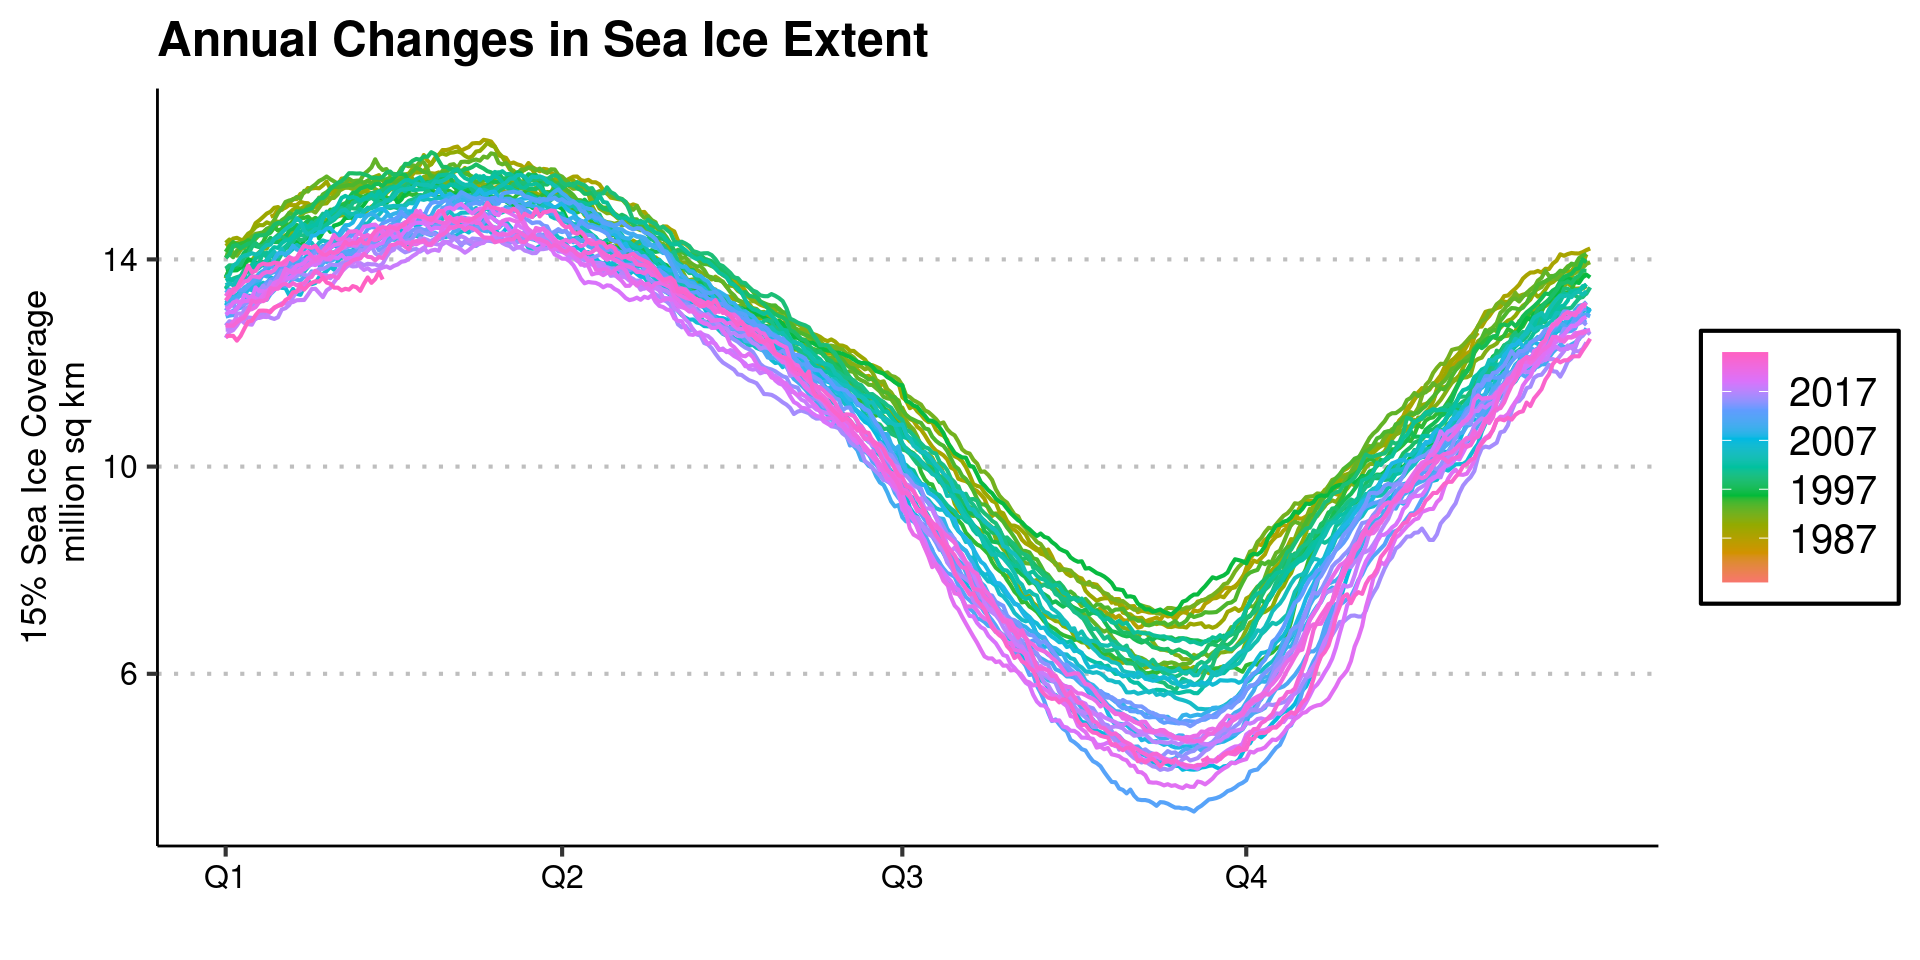
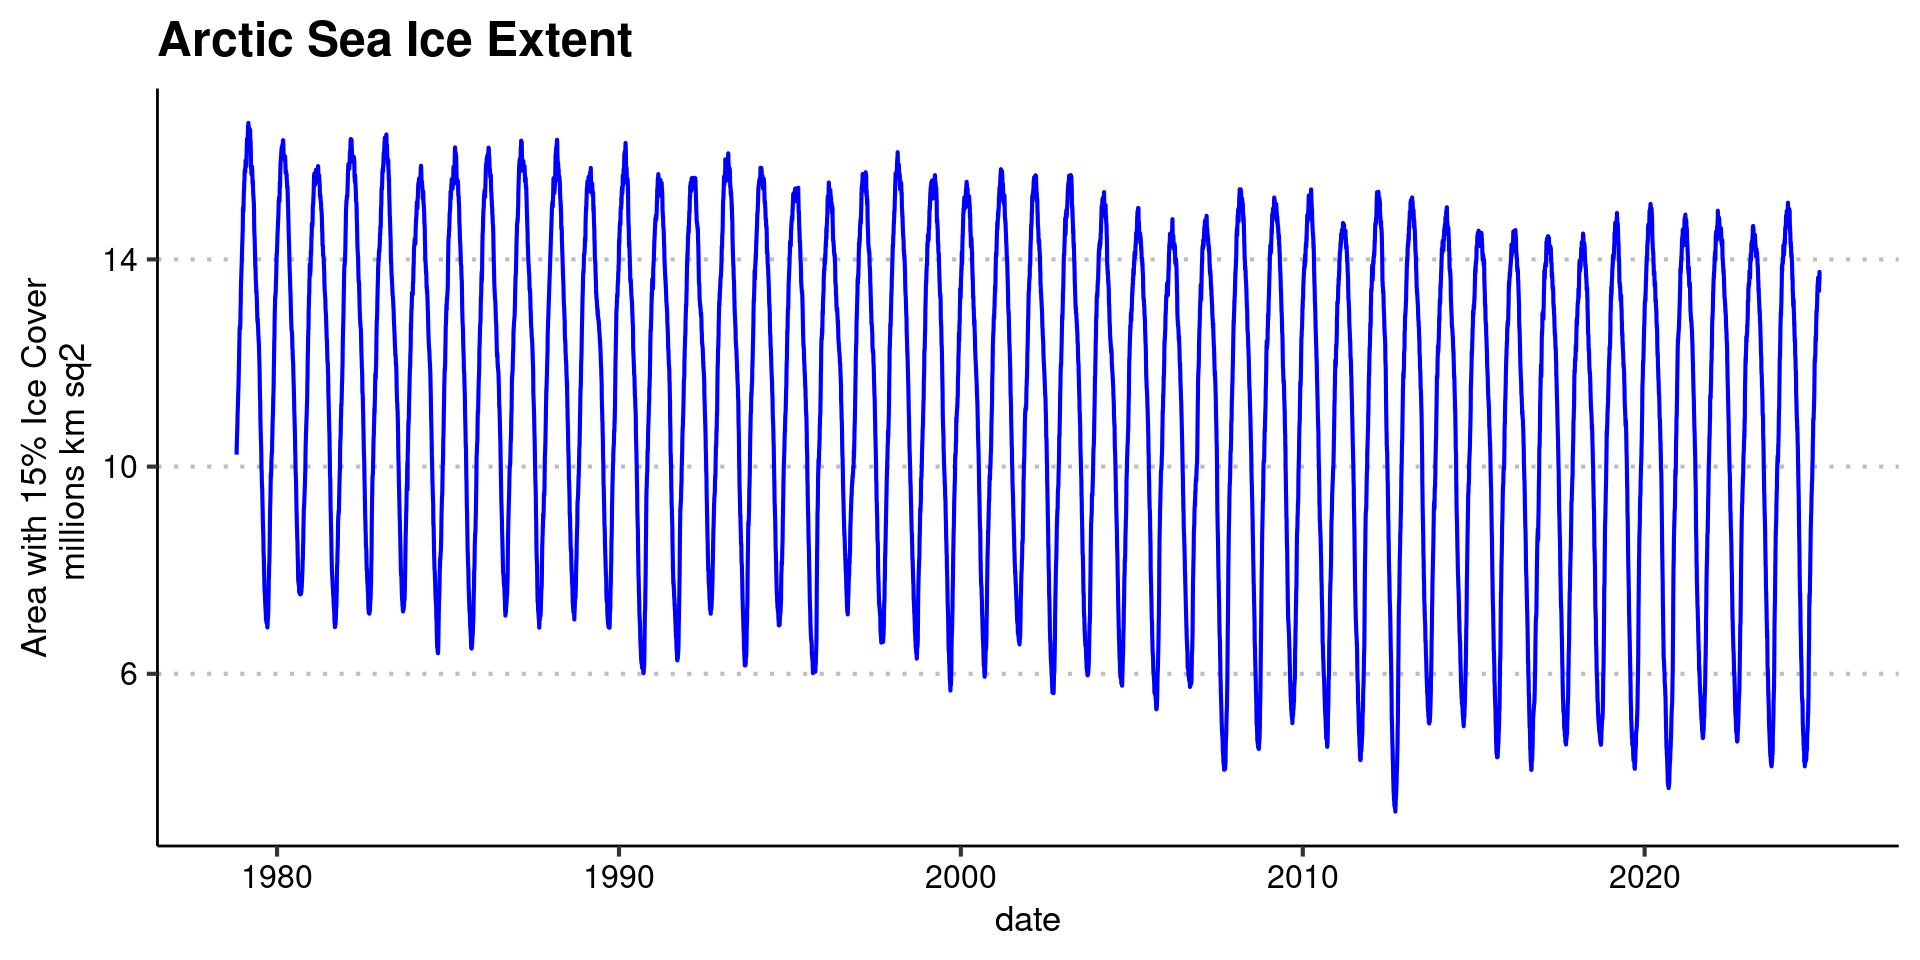
Built site for gh-pages

diff --git a/meetups/meetup-4/meetup-4.html b/meetups/meetup-4/meetup-4.html
@@ -408,13 +408,57 @@ George Hagstrom
 <h2>Week 4 Summary</h2>
 <ul>
 <li>Data Story 2 due this Sunday</li>
-<li>Discussion post on</li>
 <li>This week is all about associations
 <ul>
 <li>Two variables</li>
 <li>Time Series</li>
 <li>Several to Many Variables</li>
 </ul></li>
+</ul>
+</section>
+<section id="reading" class="slide level2">
+<h2>Reading</h2>
+<ol type="1">
+<li>Fundamentals of Data Visualization (Wilke)</li>
+</ol>
+<ul>
+<li>Chapter 12 and 13</li>
+<li>Skip dimensionality reduction, we will return to it later</li>
+</ul>
+</section>
+<section id="event-reminder" class="slide level2">
+<h2>Event Reminder!</h2>
+
+<img data-src="../../images/Oct2026Seminar.png" class="r-stretch"><ul>
+<li><a href="https://us02web.zoom.us/j/83840080608?pwd=KwzeAIG66KJQ27QeAqBGkqkr5XsxmI.1&amp;jst=1">Click Here to sign up</a></li>
+</ul>
+</section>
+<section id="hw-1-review" class="slide level2">
+<h2>HW 1 Review</h2>
+<ul>
+<li>Corrected Figures: Return by Sunday Midnight</li>
+<li>If you need an extension please ask right away</li>
+</ul>
+</section>
+<section id="hw-1-review-1" class="slide level2">
+<h2>HW 1 Review</h2>
+<ol type="1">
+<li>Stories left some meat on the bone:</li>
+</ol>
+<ul>
+<li>Migration data/displacement</li>
+<li>Outliers in Rust Belt/Economically Depressed Areas</li>
+<li>Sensitivity to years chosen</li>
+</ul>
+</section>
+<section id="hw-1-review-2" class="slide level2">
+<h2>HW 1 Review</h2>
+<ol start="2" type="1">
+<li>More thought into what data is being used</li>
+</ol>
+<ul>
+<li>Articles specific that <em>permits</em> lead <em>rents</em></li>
+<li>Choice of years for everything matters</li>
 </ul>
 </section>
 <section id="scatterplots" class="slide level2">
@@ -856,6 +900,14 @@ George Hagstrom
 <li>Create second data-frame with the last values</li>
 <li>Add additional “axis” on right hand side</li>
 </ul>
+
+<img data-src="meetup-4_files/figure-revealjs/unnamed-chunk-38-1.png" width="960" class="r-stretch"></section>
+<section id="avoiding-the-legend-1" class="slide level2">
+<h2>Avoiding the Legend</h2>
+<ul>
+<li>Create second data-frame with the last values</li>
+<li>Add additional “axis” on right hand side</li>
+</ul>
 <div class="cell">
 <div class="sourceCode cell-code" id="cb16"><pre class="sourceCode numberSource r number-lines code-with-copy"><code class="sourceCode r"><span id="cb16-1"><a></a>tech_stocks <span class="ot">=</span> <span class="fu">read_csv</span>(<span class="st">"tech_stocks.csv"</span>)</span>
 <span id="cb16-2"><a></a></span>
@@ -879,14 +931,14 @@ George Hagstrom
 <span id="cb16-20"><a></a>  )</span></code><button title="Copy to Clipboard" class="code-copy-button"><i class="bi"></i></button></pre></div>
 </div>
 </section>
-<section id="avoiding-the-legend-1" class="slide level2">
+<section id="avoiding-the-legend-2" class="slide level2">
 <h2>Avoiding the Legend</h2>
 <ul>
 <li>Create second data-frame with the last values</li>
 </ul>
 
-<img data-src="meetup-4_files/figure-revealjs/unnamed-chunk-39-1.png" width="960" class="r-stretch"></section>
-<section id="avoiding-the-legend-2" class="slide level2">
+<img data-src="meetup-4_files/figure-revealjs/unnamed-chunk-40-1.png" width="960" class="r-stretch"></section>
+<section id="avoiding-the-legend-3" class="slide level2">
 <h2>Avoiding the Legend</h2>
 <ul>
 <li>Create second data-frame with the last values</li>
@@ -907,14 +959,14 @@ George Hagstrom
 <li>Plot against just month/day or in polar coordinates</li>
 </ul>
 
-<img data-src="meetup-4_files/figure-revealjs/unnamed-chunk-41-1.png" width="960" class="r-stretch"></section>
+<img data-src="meetup-4_files/figure-revealjs/unnamed-chunk-42-1.png" width="960" class="r-stretch"></section>
 <section id="seasonal-and-polar-plots-1" class="slide level2">
 <h2>Seasonal and Polar Plots</h2>
 <ul>
 <li>use <code>feasts</code> package</li>
 </ul>
 
-<img data-src="meetup-4_files/figure-revealjs/unnamed-chunk-42-1.png" width="960" class="r-stretch"></section>
+<img data-src="meetup-4_files/figure-revealjs/unnamed-chunk-43-1.png" width="960" class="r-stretch"></section>
 <section id="seasonal-and-polar-plots-2" class="slide level2">
 <h2>Seasonal and Polar Plots</h2>
 <ul>
@@ -957,7 +1009,7 @@ George Hagstrom
 <li>use <code>feasts</code> package</li>
 </ul>
 
-<img data-src="meetup-4_files/figure-revealjs/unnamed-chunk-45-1.png" width="960" class="r-stretch"></section>
+<img data-src="meetup-4_files/figure-revealjs/unnamed-chunk-46-1.png" width="960" class="r-stretch"></section>
 <section id="seasonal-and-polar-plots-5" class="slide level2">
 <h2>Seasonal and Polar Plots</h2>
 <ul>
@@ -985,14 +1037,14 @@ George Hagstrom
 <li><code>geom_path</code></li>
 </ul>
 
-<img data-src="meetup-4_files/figure-revealjs/unnamed-chunk-47-1.png" width="960" class="r-stretch"></section>
+<img data-src="meetup-4_files/figure-revealjs/unnamed-chunk-48-1.png" width="960" class="r-stretch"></section>
 <section id="connected-scatterplot-1" class="slide level2">
 <h2>Connected Scatterplot</h2>
 <ul>
 <li>Alternative way to show two time series together</li>
 </ul>
 
-<img data-src="meetup-4_files/figure-revealjs/unnamed-chunk-48-1.png" width="960" class="r-stretch"></section>
+<img data-src="meetup-4_files/figure-revealjs/unnamed-chunk-49-1.png" width="960" class="r-stretch"></section>
 <section id="connected-scatterplot-2" class="slide level2">
 <h2>Connected Scatterplot</h2>
 <ul>
@@ -1015,6 +1067,78 @@ George Hagstrom
 <h2>Connected Scatterplot</h2>
 
 <img data-src="connected.png" class="r-stretch quarto-figure-center"><p class="caption">NY Times 2010</p></section>
+<section id="alternatives-overlay" class="slide level2">
+<h2>Alternatives: Overlay</h2>
+
+<img data-src="meetup-4_files/figure-revealjs/unnamed-chunk-51-1.png" width="960" class="r-stretch"></section>
+<section id="alternatives-overlay-1" class="slide level2">
+<h2>Alternatives: Overlay</h2>
+<div class="cell">
+<div class="sourceCode cell-code" id="cb22"><pre class="sourceCode numberSource r number-lines code-with-copy"><code class="sourceCode r"><span id="cb22-1"><a></a>hare_lynx_long <span class="ot">=</span> hare_lynx <span class="sc">|&gt;</span></span>
+<span id="cb22-2"><a></a>  <span class="fu">pivot_longer</span>(<span class="fu">c</span>(Hare, Lynx), <span class="at">names_to =</span> <span class="st">"Species"</span>, <span class="at">values_to =</span> <span class="st">"Trappings"</span>)</span>
+<span id="cb22-3"><a></a></span>
+<span id="cb22-4"><a></a>p_overlay <span class="ot">=</span> hare_lynx_long <span class="sc">|&gt;</span> <span class="fu">ggplot</span>(<span class="fu">aes</span>(<span class="at">x=</span>Year,<span class="at">y=</span>Trappings,<span class="at">color=</span>Species)) <span class="sc">+</span></span>
+<span id="cb22-5"><a></a>  <span class="fu">geom_line</span>(<span class="at">linewidth=</span><span class="fl">0.8</span>) <span class="sc">+</span></span>
+<span id="cb22-6"><a></a>  <span class="fu">geom_text_repel</span>(</span>
+<span id="cb22-7"><a></a>    <span class="at">data =</span> hare_lynx_long <span class="sc">|&gt;</span> <span class="fu">filter</span>(Year <span class="sc">==</span> <span class="fu">max</span>(Year)),</span>
+<span id="cb22-8"><a></a>    <span class="fu">aes</span>(<span class="at">label =</span> Species),</span>
+<span id="cb22-9"><a></a>    <span class="at">nudge_x =</span> <span class="dv">5</span>, <span class="at">size =</span> <span class="dv">5</span>) <span class="sc">+</span></span>
+<span id="cb22-10"><a></a>  <span class="fu">scale_color_manual</span>(<span class="at">values =</span> <span class="fu">c</span>(<span class="st">"Hare"</span> <span class="ot">=</span> <span class="st">"blue"</span>, <span class="st">"Lynx"</span> <span class="ot">=</span> <span class="st">"darkorange"</span>)) <span class="sc">+</span></span>
+<span id="cb22-11"><a></a>  <span class="fu">theme_minimal</span>(<span class="at">base_size =</span> <span class="dv">16</span>) <span class="sc">+</span></span>
+<span id="cb22-12"><a></a>    <span class="fu">theme</span>( <span class="at">plot.background =</span> <span class="fu">element_rect</span>(<span class="at">color =</span> <span class="cn">NA</span>)) <span class="sc">+</span></span>
+<span id="cb22-13"><a></a>  <span class="fu">labs</span>(<span class="at">title =</span> <span class="st">"Oscillations of Lynx and Hare Populations"</span>) <span class="sc">+</span></span>
+<span id="cb22-14"><a></a>  <span class="fu">ylab</span>(<span class="st">"Trappings"</span>) <span class="sc">+</span></span>
+<span id="cb22-15"><a></a>  <span class="fu">guides</span>(<span class="at">color=</span><span class="st">"none"</span>)</span>
+<span id="cb22-16"><a></a></span>
+<span id="cb22-17"><a></a>p_overlay</span></code><button title="Copy to Clipboard" class="code-copy-button"><i class="bi"></i></button></pre></div>
+</div>
+</section>
+<section id="alternatives-lag-shift" class="slide level2">
+<h2>Alternatives: Lag Shift</h2>
+
+<img data-src="meetup-4_files/figure-revealjs/unnamed-chunk-53-1.png" width="960" class="r-stretch"></section>
+<section id="alternatives-lag-shift-1" class="slide level2">
+<h2>Alternatives: Lag Shift</h2>
+<div class="cell">
+<div class="sourceCode cell-code" id="cb23"><pre class="sourceCode numberSource r number-lines code-with-copy"><code class="sourceCode r"><span id="cb23-1"><a></a>p_shift <span class="ot">=</span> hare_lynx <span class="sc">|&gt;</span></span>
+<span id="cb23-2"><a></a>  <span class="fu">mutate</span>(<span class="st">`</span><span class="at">Lynx (shifted 2 yr earlier)</span><span class="st">`</span> <span class="ot">=</span> <span class="fu">lead</span>(Lynx, <span class="dv">2</span>)) <span class="sc">|&gt;</span></span>
+<span id="cb23-3"><a></a>  <span class="fu">select</span>(<span class="sc">-</span>Lynx) <span class="sc">|&gt;</span></span>
+<span id="cb23-4"><a></a>  <span class="fu">pivot_longer</span>(<span class="sc">-</span>Year, <span class="at">names_to =</span> <span class="st">"Species"</span>, <span class="at">values_to =</span> <span class="st">"Trappings"</span>) <span class="sc">|&gt;</span></span>
+<span id="cb23-5"><a></a>  <span class="fu">ggplot</span>(<span class="fu">aes</span>(<span class="at">x=</span>Year,<span class="at">y=</span>Trappings,<span class="at">color=</span>Species)) <span class="sc">+</span></span>
+<span id="cb23-6"><a></a>  <span class="fu">geom_line</span>(<span class="at">linewidth=</span><span class="fl">0.8</span>, <span class="at">na.rm=</span><span class="cn">TRUE</span>) <span class="sc">+</span></span>
+<span id="cb23-7"><a></a>  <span class="fu">scale_color_manual</span>(<span class="at">values =</span> <span class="fu">c</span>(<span class="st">"blue"</span>,<span class="st">"darkorange"</span>), <span class="at">name =</span> <span class="cn">NULL</span>) <span class="sc">+</span></span>
+<span id="cb23-8"><a></a>  <span class="fu">theme_minimal</span>(<span class="at">base_size =</span> <span class="dv">16</span>) <span class="sc">+</span></span>
+<span id="cb23-9"><a></a>    <span class="fu">theme</span>( <span class="at">plot.background =</span> <span class="fu">element_rect</span>(<span class="at">color =</span> <span class="cn">NA</span>),</span>
+<span id="cb23-10"><a></a>           <span class="at">legend.position =</span> <span class="st">"top"</span>) <span class="sc">+</span></span>
+<span id="cb23-11"><a></a>  <span class="fu">labs</span>(<span class="at">title =</span> <span class="st">"Lynx Shifted Back Two Years Tracks the Hare Cycle"</span>) <span class="sc">+</span></span>
+<span id="cb23-12"><a></a>  <span class="fu">ylab</span>(<span class="st">"Trappings (thousands)"</span>)</span>
+<span id="cb23-13"><a></a></span>
+<span id="cb23-14"><a></a>p_shift</span></code><button title="Copy to Clipboard" class="code-copy-button"><i class="bi"></i></button></pre></div>
+</div>
+</section>
+<section id="alternatives-animation" class="slide level2">
+<h2>Alternatives: animation</h2>
+
+<img data-src="meetup-4_files/figure-revealjs/unnamed-chunk-55-1.gif" class="r-stretch"></section>
+<section id="alternatives-animation-1" class="slide level2">
+<h2>Alternatives: animation</h2>
+<div class="cell">
+<div class="sourceCode cell-code" id="cb24"><pre class="sourceCode numberSource r number-lines code-with-copy"><code class="sourceCode r"><span id="cb24-1"><a></a><span class="fu">library</span>(gganimate)</span>
+<span id="cb24-2"><a></a></span>
+<span id="cb24-3"><a></a>anim <span class="ot">=</span> hare_lynx <span class="sc">|&gt;</span> <span class="fu">ggplot</span>(<span class="fu">aes</span>(<span class="at">x=</span>Hare,<span class="at">y=</span>Lynx)) <span class="sc">+</span></span>
+<span id="cb24-4"><a></a>  <span class="fu">geom_path</span>(<span class="at">color=</span><span class="st">"blue"</span>) <span class="sc">+</span></span>
+<span id="cb24-5"><a></a>  <span class="fu">geom_point</span>(<span class="at">size=</span><span class="dv">4</span>,<span class="at">color=</span><span class="st">"black"</span>) <span class="sc">+</span></span>
+<span id="cb24-6"><a></a>  <span class="fu">theme_minimal</span>(<span class="at">base_size =</span> <span class="dv">16</span>) <span class="sc">+</span></span>
+<span id="cb24-7"><a></a>    <span class="fu">theme</span>( <span class="at">plot.background =</span> <span class="fu">element_rect</span>(<span class="at">color =</span> <span class="cn">NA</span>)) <span class="sc">+</span></span>
+<span id="cb24-8"><a></a>  <span class="fu">labs</span>(<span class="at">title =</span> <span class="st">"Lynx vs Hare Phase Portrait: {as.integer(frame_along)}"</span>) <span class="sc">+</span></span>
+<span id="cb24-9"><a></a>  <span class="fu">xlab</span>(<span class="st">"Hare Trappings"</span>) <span class="sc">+</span></span>
+<span id="cb24-10"><a></a>  <span class="fu">ylab</span>(<span class="st">"Lynx Trappings"</span>) <span class="sc">+</span></span>
+<span id="cb24-11"><a></a>  <span class="fu">transition_reveal</span>(Year) <span class="sc">+</span></span>
+<span id="cb24-12"><a></a>  <span class="fu">shadow_wake</span>(<span class="at">wake_length =</span> <span class="fl">0.5</span>, <span class="at">alpha =</span> <span class="fl">0.8</span>, <span class="at">size =</span> <span class="fl">1.5</span>, <span class="at">wrap =</span> <span class="cn">FALSE</span>)</span>
+<span id="cb24-13"><a></a></span>
+<span id="cb24-14"><a></a><span class="fu">animate</span>(anim, <span class="at">fps =</span> <span class="dv">10</span>, <span class="at">end_pause =</span> <span class="dv">25</span>)</span></code><button title="Copy to Clipboard" class="code-copy-button"><i class="bi"></i></button></pre></div>
+</div>
+</section>
 <section id="thanks" class="slide level2">
 <h2>Thanks</h2>
 

diff --git a/course/schedule.html b/course/schedule.html
@@ -381,7 +381,7 @@ ul.task-list li input[type="checkbox"] {
 <tr class="even">
 <td>Sep 21</td>
 <td><a href="../modules/module4.html">Associations and Time Series</a></td>
-<td></td>
+<td><a href="../meetups/meetup-4/meetup-4.html">Meetup 4 Slides</a></td>
 <td></td>
 <td><a href="../assignments/stories/story2.html">Story 2</a> due Sun Sep 27</td>
 </tr>
